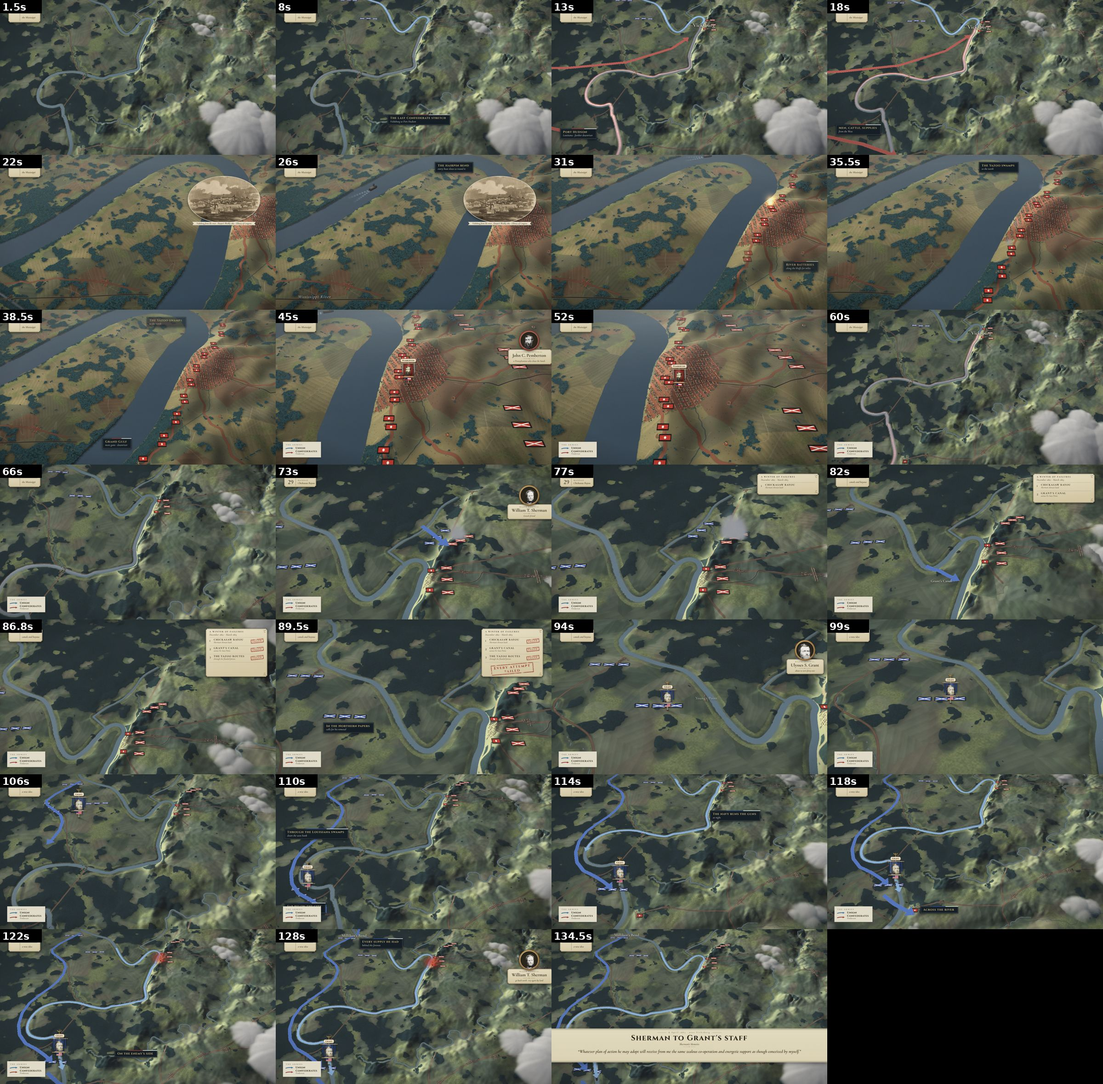
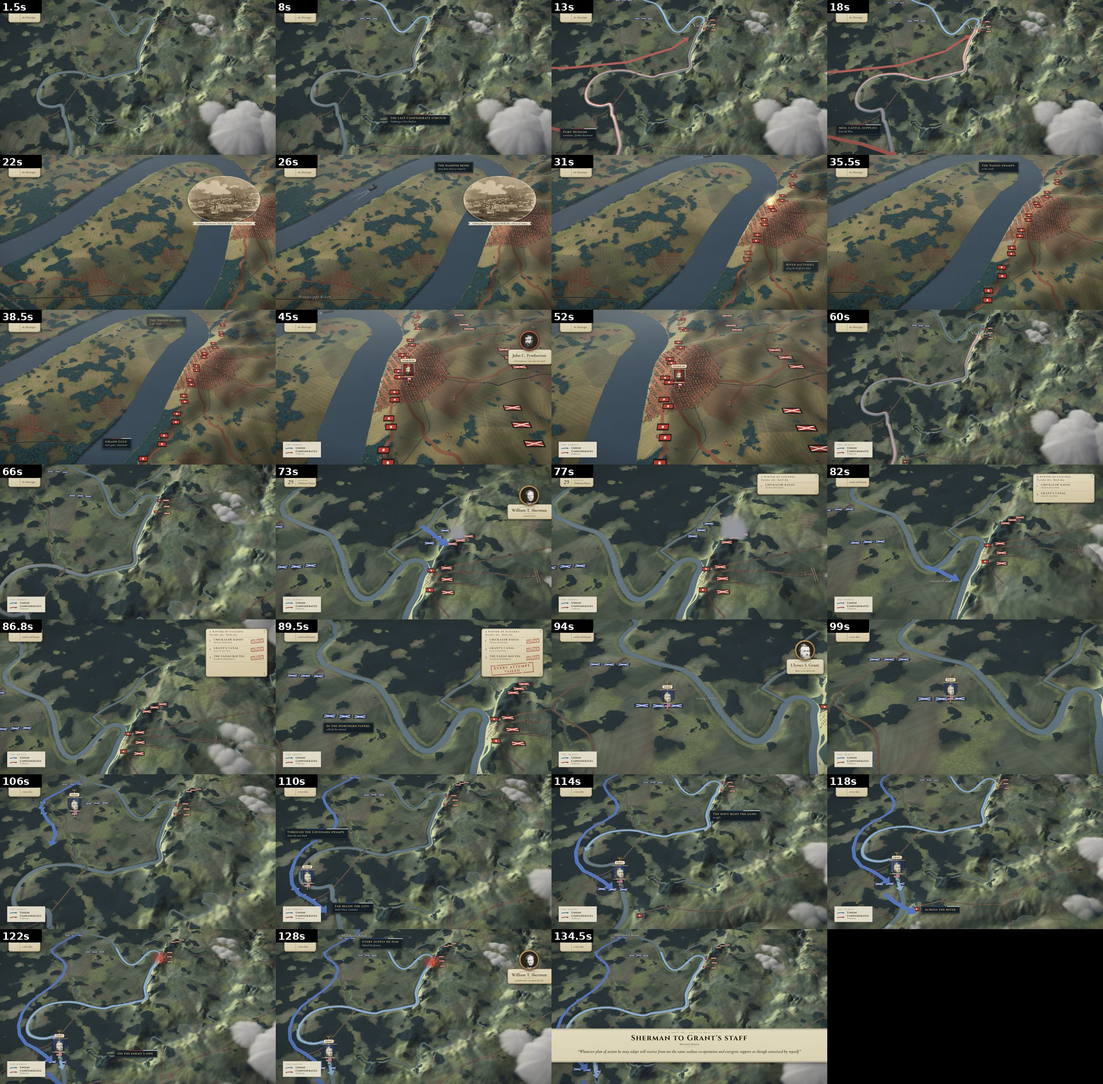
Vicksburg #19: WIP round-2 fixes
Claude-Session: https://claude.ai/code/session_011uJnjA7y1mRFw6KPGY1APG

diff --git a/vicksburg/sequences/S02/seq.js b/vicksburg/sequences/S02/seq.js
@@ -99,7 +99,7 @@ const units = [
 ];
 // the west-bank road (Louisiana): Milliken's Bend - Richmond - down the west side of Roundaway Bayou - round the river's western loop - New Carthage - Hard Times,
 // 12-30 units (1.5-4 km) west of the channel everywhere (the baked road 0/1 runs ON the channel between New Carthage and Perkins')
-const WB = [MB, [1199, 609], [1180, 629], TW("Richmond"), [1162, 664], [1168, 680], [1178, 698], [1192, 716], [1200, 735], [1198, 755], [1188, 770], [1172, 784],
+const WB = [MB, [1199, 609], [1180, 629], [1164, 647], [1162, 664], [1168, 680], [1178, 698], [1192, 716], [1200, 735], [1198, 755], [1188, 770], [1172, 784],
   [1161, 800], [1155, 822], [1156, 846], [1163, 866], [1176, 882], NC, [1209, 903], HT];
 const WBthin = WB;
 const WBL = VX.len(WB);
@@ -255,7 +255,7 @@ window.SEQ = {
     ["label", T.riskiest - 0.3, T.riskiest + 2.4, { name: "The riskiest idea yet", sub: "some of his own generals", world: [1250, 740], side: "us", marker: false }],
     // G
     ["label", T.louisiana2, T.louisiana2 + 3.0, { name: "Through the Louisiana swamps", sub: "down the west bank", world: [1180, 760], side: "us", marker: false, offset: [-360, -20] }],
-    ["label", T.below, T.below + 3.6, { name: "Far below the city", sub: "Hard Times, Louisiana", world: [HT[0] - 2, HT[1] + 2], side: "us", marker: false, offset: [-330, 10] }],
+    ["label", T.below, T.below + 3.6, { name: "Far below the city", sub: "Hard Times, Louisiana", world: [HT[0] - 2, HT[1] + 2], side: "us", marker: false, offset: [40, -50] }],
     ["label", T.run, T.run + 3.4, { name: "The navy runs the guns", sub: "at night", world: [1350, 760], side: "us", marker: false }],
     ["label", T.carry, T.carry + 3.2, { name: "Across the river", world: [GG[0] + 6, GG[1] + 8], side: "us", marker: false }],
     ["label", T.enemy, T.enemy + 3.0, { name: "On the enemy's side", world: [1300, 900], side: "cs", marker: false }],
